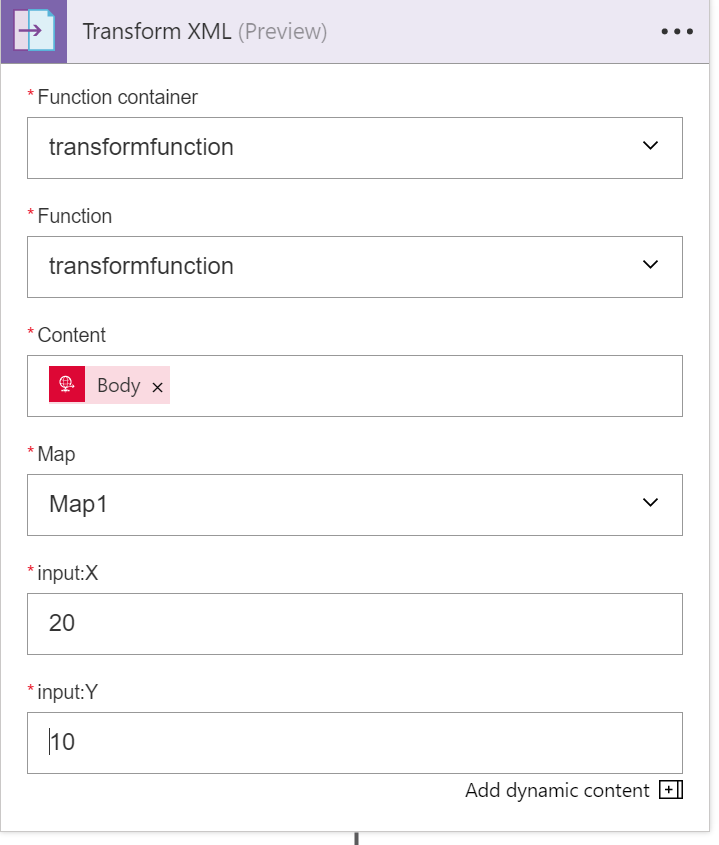
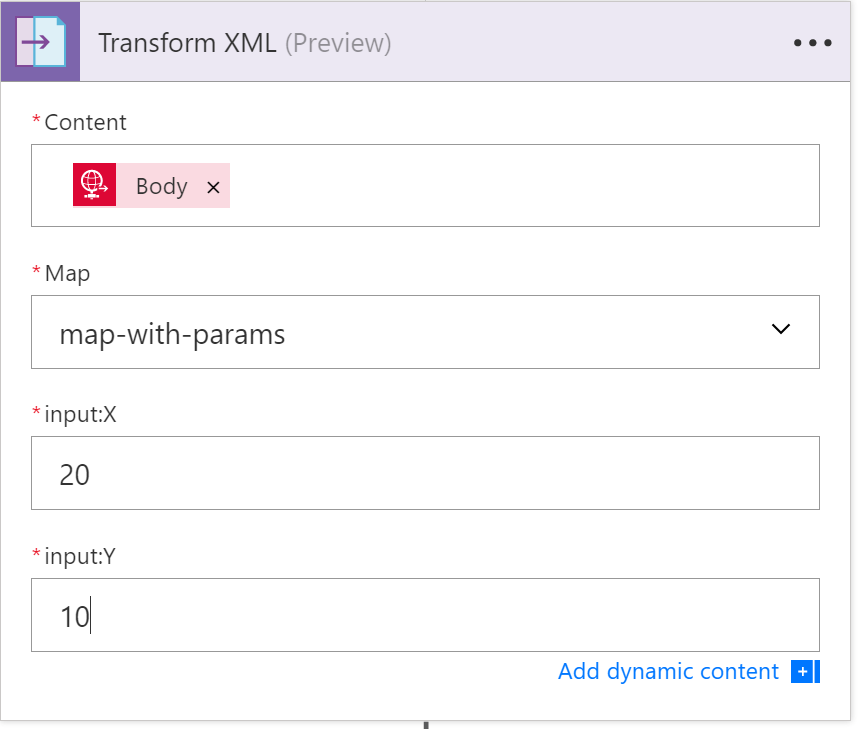
Removed function app dependency

diff --git a/201-logic-app-xslt-with-params/README.md b/201-logic-app-xslt-with-params/README.md
@@ -9,18 +9,9 @@
 
 This template creates a request-response Logic App which performs XSLT based transformation. The XSLT map takes primitives (integer, string etc.) as input parameters as uses them during XML transformation.
 
-## Prerequisites ##
-
-In order to properly deploy this ARM template, you need to first create an Azure Function app and provide its name in the parameters.
-Create an Azure Function App - https://portal.azure.com/#create/Microsoft.FunctionApp
-
-### Tip: ### 
-Make a note of the the name of the Azure Function App, you will need it in the next step. 
-
 ## Deployment steps
 
 You can click the "Deploy to Azure" button at the beginning of this document or follow the instructions for command line deployment using the scripts in the root of this repo.
-Note: The Logic App and the Azure Function App need to be deployed in the same resource group.
 
 ## Usage
 
